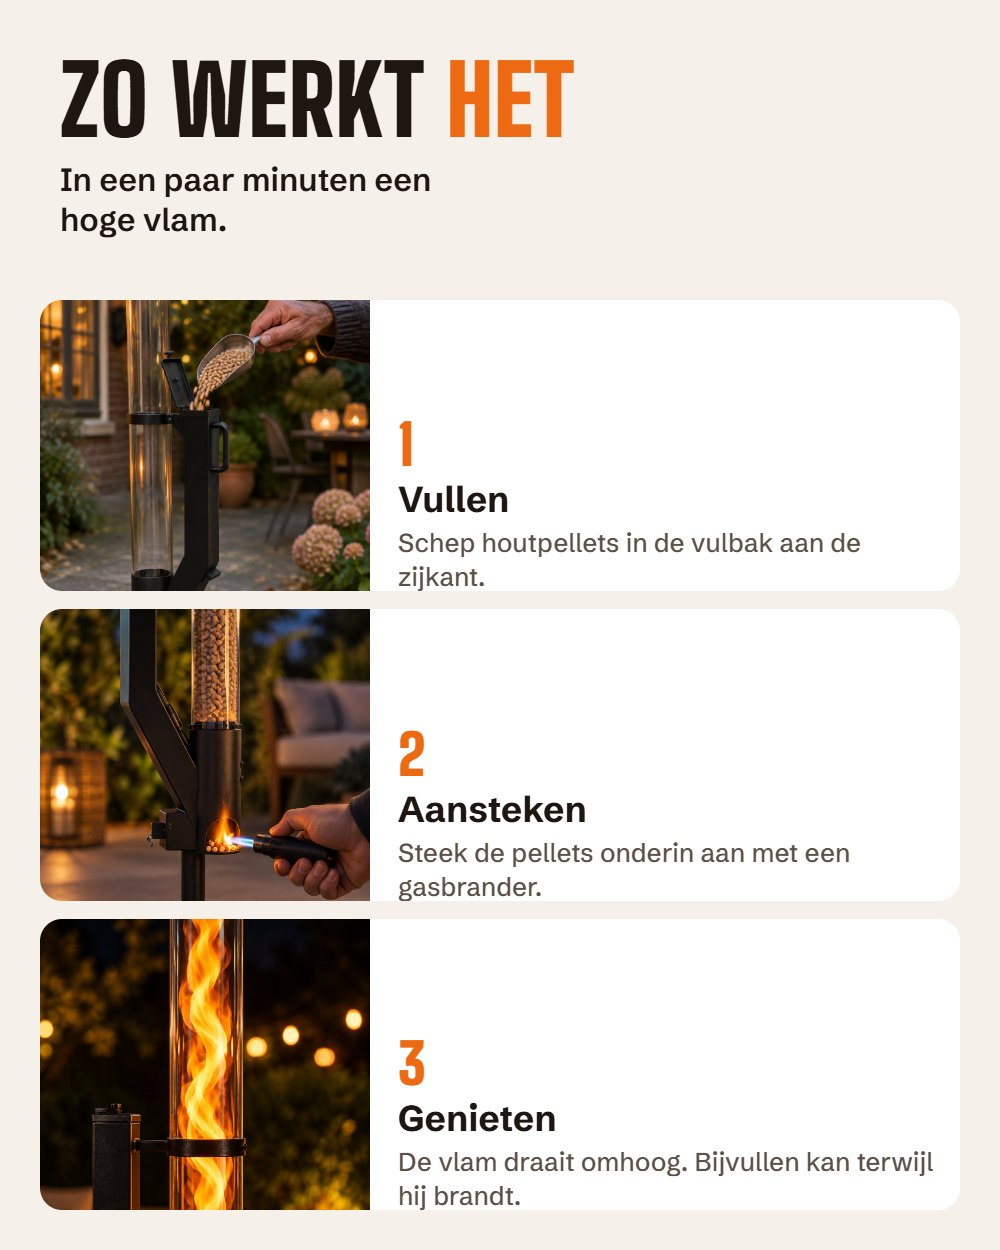
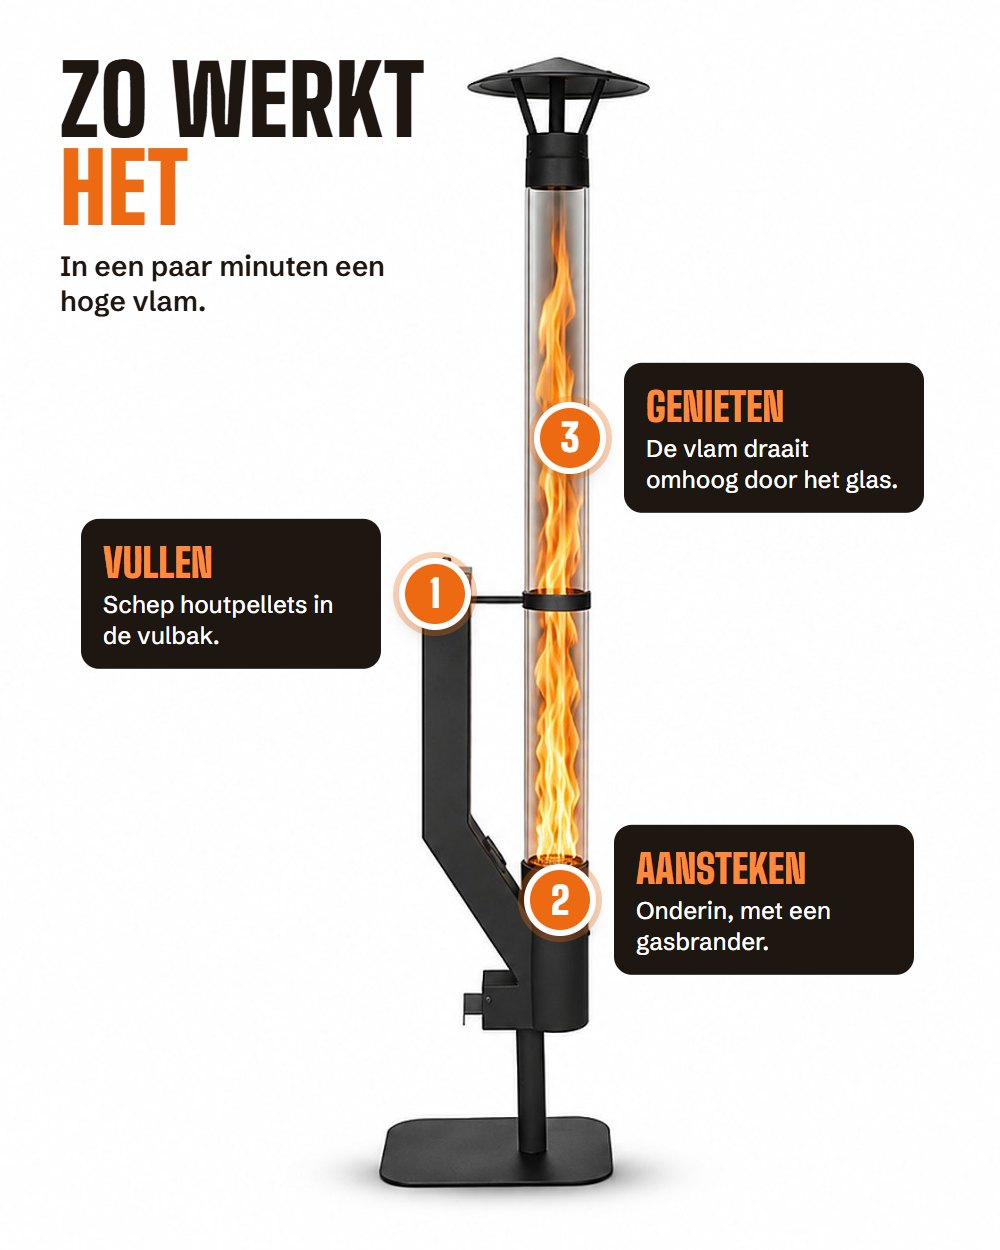
Zo werkt het als 1 productfoto met genummerde punten; Grand of Mini eruit

diff --git a/v3-licht.html b/v3-licht.html
@@ -896,12 +896,11 @@ footer{background:var(--night-2)}
       ["s_g1","Echt vuur, 360° warmte: de voordelen van de Flametower",[]],
       ["f52","Flametower Grand brandend op een witte achtergrond",[L("Hoed vangt de vonken op",55,6),L("Vulbak voor houtpellets",44,52,"l")]],
       ["s_g2","Specificaties van de Flametower Grand",[]],
-      ["s_g3","Zo werkt het: vullen, aansteken, genieten",[]],
+      ["s_g3","Zo werkt het: vullen, aansteken, genieten, aangewezen op de haard",[]],
       ["s_g7","Uniek design: een eyecatcher in je tuin",[]],
       ["f05","De hoed bovenop de Flametower",[L("Vonken blijven onder de kap",46,25)]],
       ["s_g4","Vergelijking Flametower, vuurkorf en gasheater",[]],
       ["s_g5","Flametower Grand bij de lounge: nog niet naar binnen",[]],
-      ["s_g6","Grand of Mini",[]],
       ["f41","Flametower Grand brandt op een terras",[]],
       ["f01","Flametower Grand bij de lounge",[]],
       ["f46","Vlam in de glazen buis van dichtbij",[]],
@@ -914,9 +913,8 @@ footer{background:var(--night-2)}
       ["s_m2","Rol hem waar je zit: wieltjes, handgreep, echte vlammen",[]],
       ["f25","Flametower Mini op een witte achtergrond",[L("Hoed tegen vonken",52,4),L("Handgreep om te verrijden",63,43)]],
       ["s_m1","Specificaties van de Flametower Mini",[]],
-      ["s_g3","Zo werkt het: vullen, aansteken, genieten",[]],
+      ["s_g3","Zo werkt het: vullen, aansteken, genieten, aangewezen op de haard",[]],
       ["f31","Wieltjes van de Flametower Mini",[L("Verplaatsen zonder tillen",58,82,"l")]],
-      ["s_g6","Grand of Mini",[]],
       ["f142","Pellets bijvullen in de Flametower Mini",[]],
       ["f27","Flametower Mini brandt op een terras",[]],
       ["f131","Flametower Grand en Mini naast elkaar",[]],
